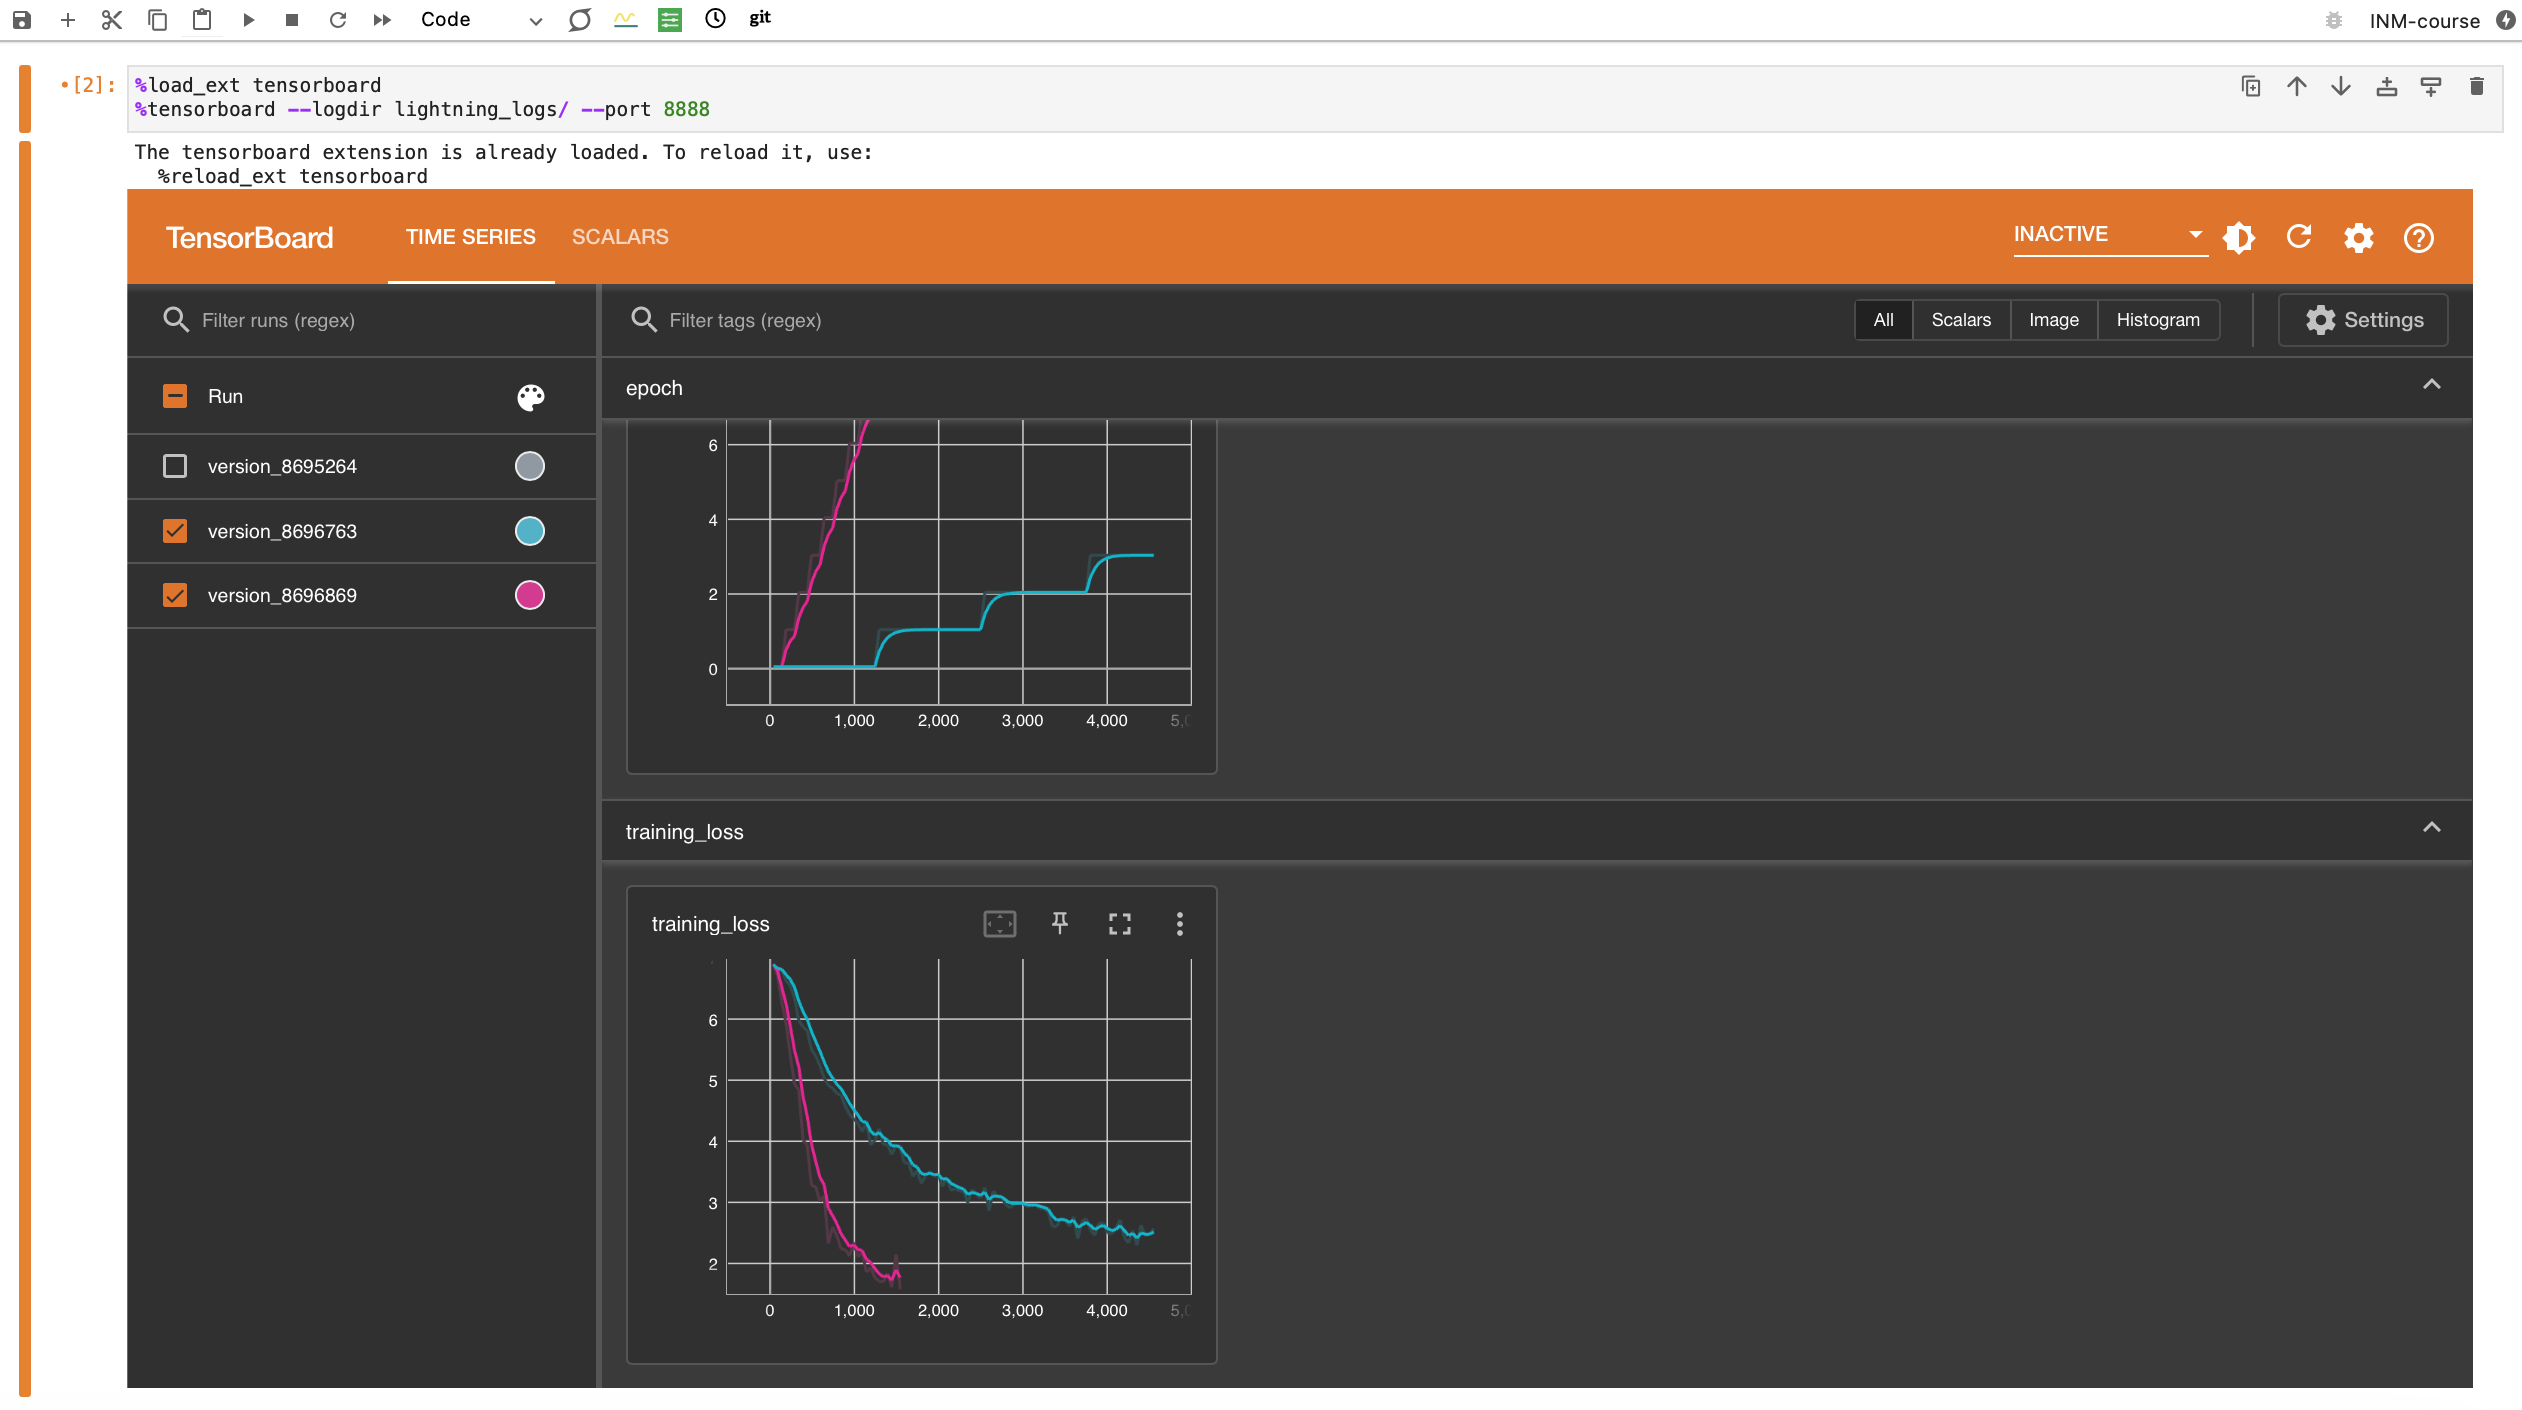
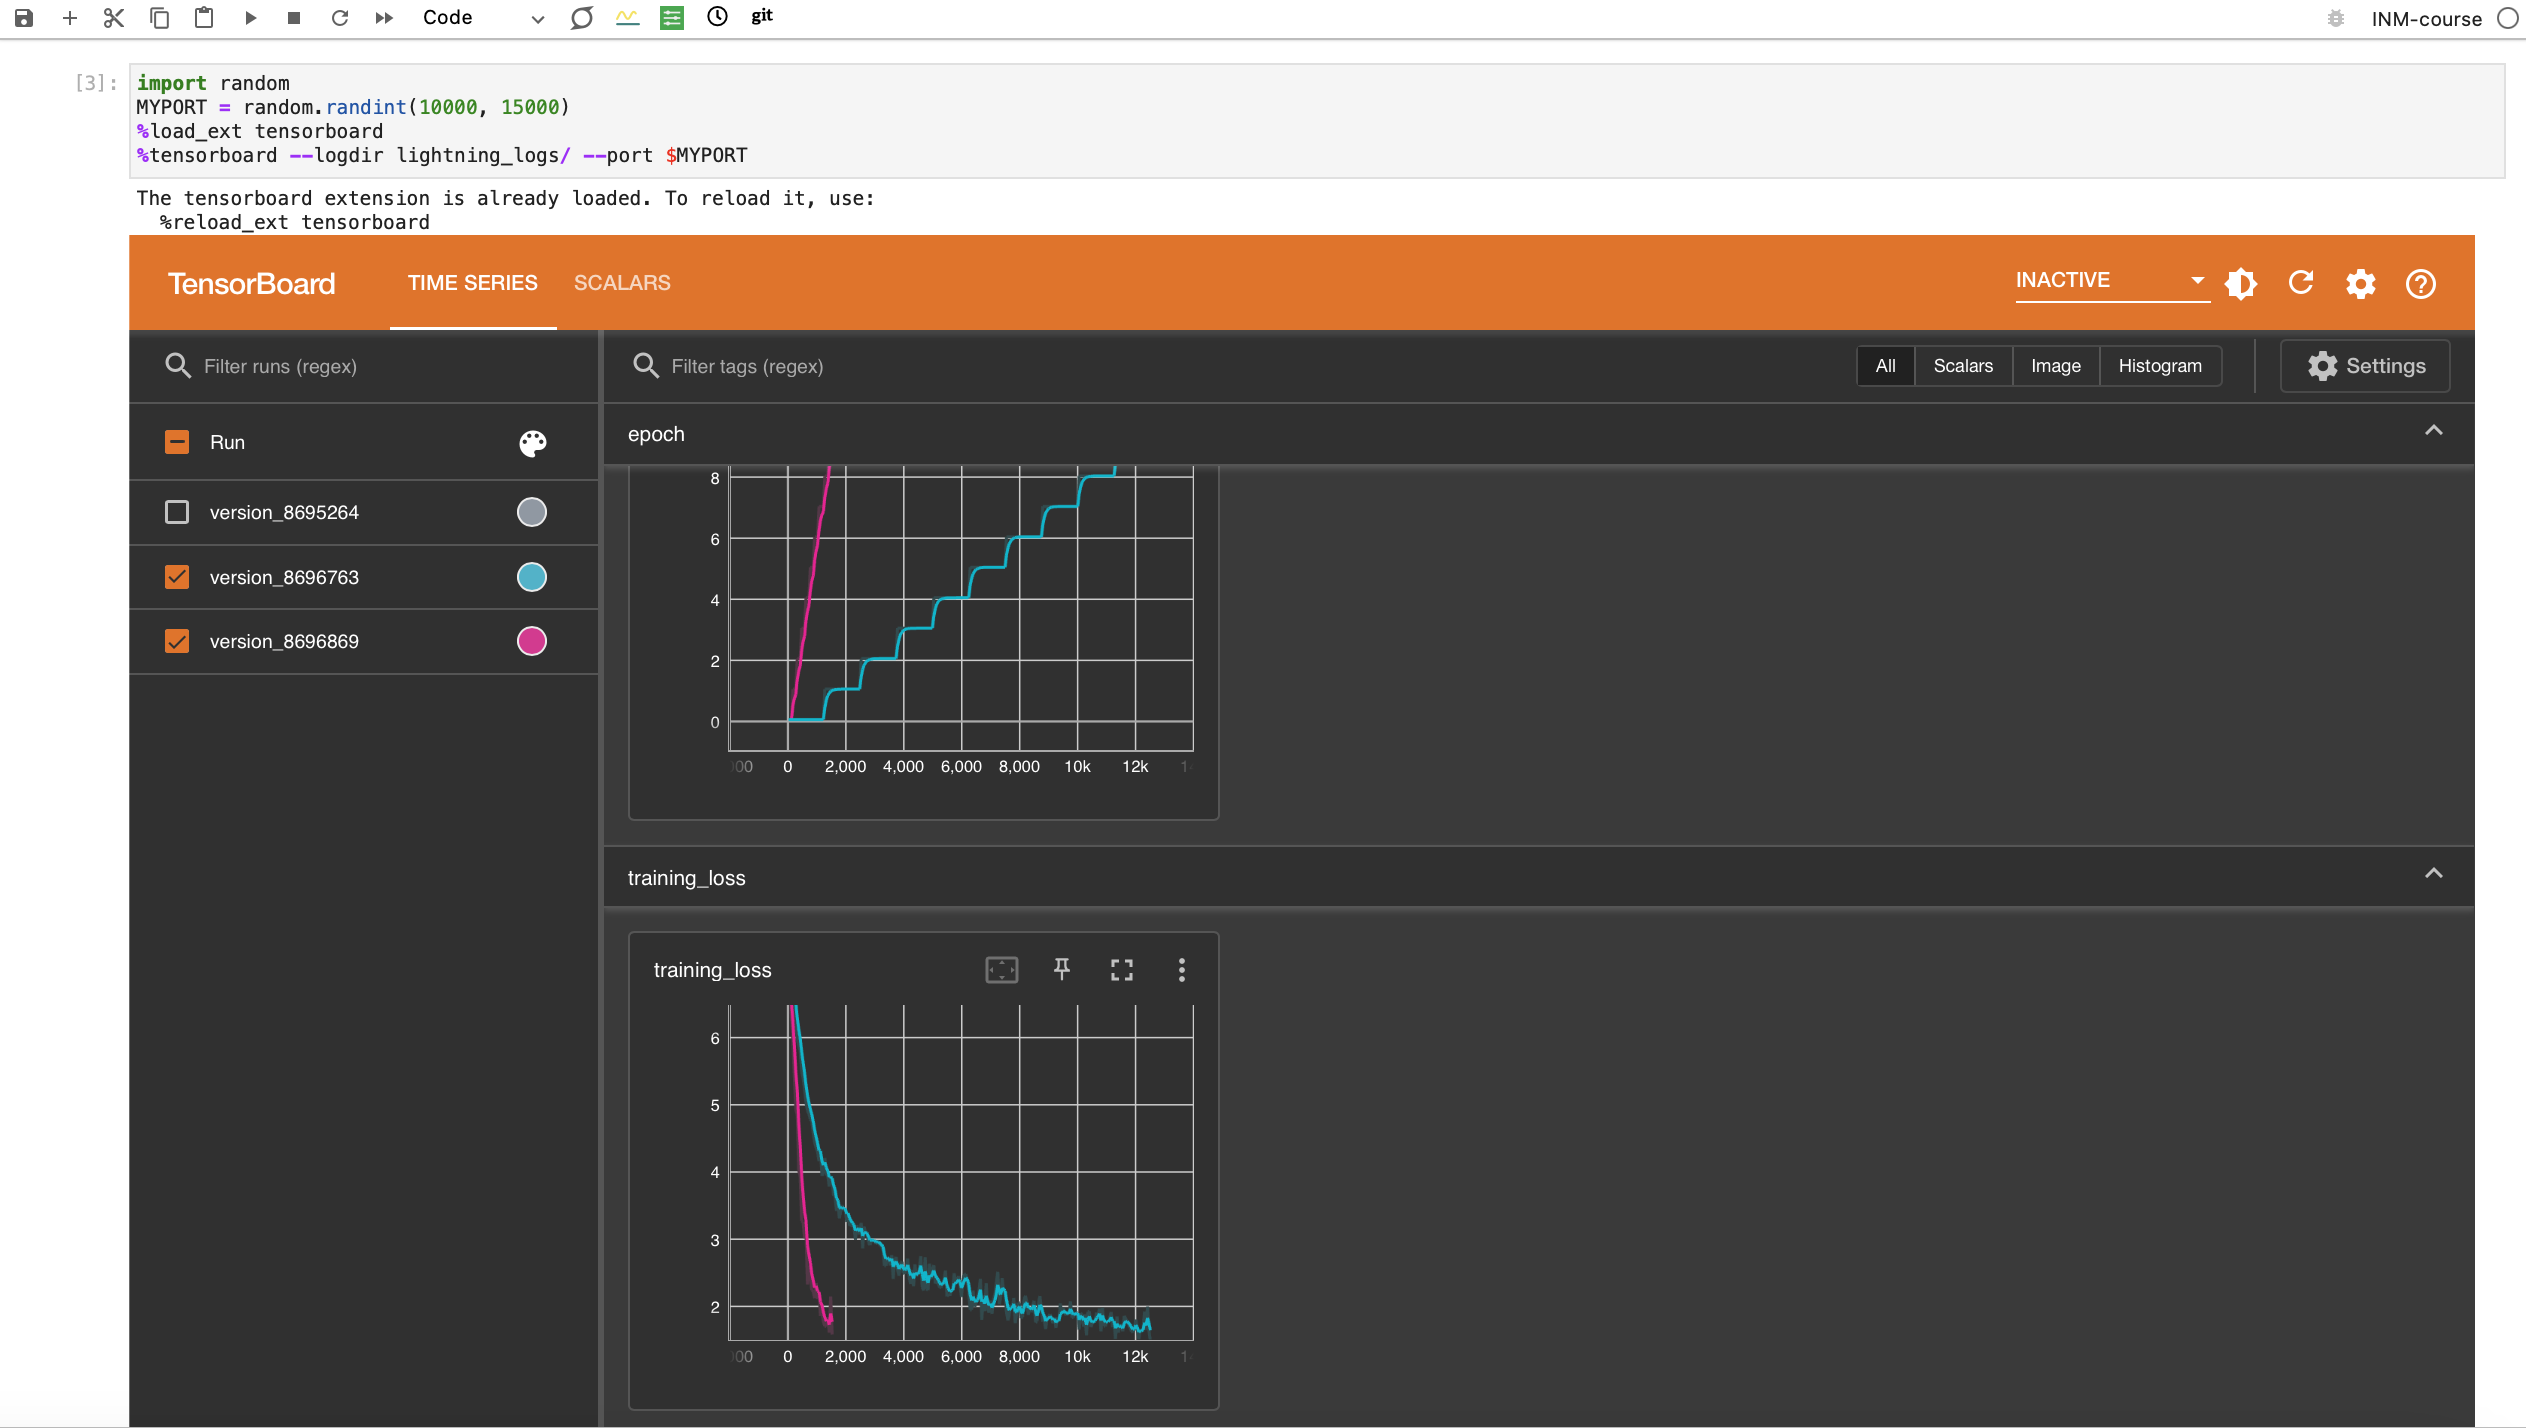
change port selection

Changed region(s): [[0.0, 0.0, 1.0, 1.0]]

diff --git a/public/03-parallelize-training.html b/public/03-parallelize-training.html
@@ -635,8 +635,10 @@ class="sourceCode python"><code class="sourceCode python"><span id="cb25-1"><a h
 <section id="tensorboard-1" class="slide level2">
 <h2>TensorBoard</h2>
 <div class="sourceCode" id="cb26"><pre
-class="sourceCode bash"><code class="sourceCode bash"><span id="cb26-1"><a href="#cb26-1" aria-hidden="true" tabindex="-1"></a><span class="ex">%load_ext</span> tensorboard</span>
-<span id="cb26-2"><a href="#cb26-2" aria-hidden="true" tabindex="-1"></a><span class="ex">%tensorboard</span> <span class="at">--logdir</span> <span class="pp">[</span><span class="ss">PATH_TO_TENSOR_BOARD</span><span class="pp">]</span> <span class="at">--port</span> 8888</span></code></pre></div>
+class="sourceCode python"><code class="sourceCode python"><span id="cb26-1"><a href="#cb26-1" aria-hidden="true" tabindex="-1"></a><span class="im">import</span> random</span>
+<span id="cb26-2"><a href="#cb26-2" aria-hidden="true" tabindex="-1"></a>MYPORT <span class="op">=</span> random.randint(<span class="dv">10000</span>, <span class="dv">15000</span>)</span>
+<span id="cb26-3"><a href="#cb26-3" aria-hidden="true" tabindex="-1"></a><span class="op">%</span>load_ext tensorboard</span>
+<span id="cb26-4"><a href="#cb26-4" aria-hidden="true" tabindex="-1"></a><span class="op">%</span>tensorboard <span class="op">--</span>logdir lightning_logs<span class="op">/</span> <span class="op">--</span>port $MYPORT</span></code></pre></div>
 <p><img data-src="images/notebook_tb.png" width="750" /></p>
 </section>
 <section id="demo-3" class="slide level2">

diff --git a/03-parallelize-training.md b/03-parallelize-training.md
@@ -469,9 +469,11 @@ self.log("training_loss", train_loss)
 
 ## TensorBoard
 
-```bash
+```python
+import random
+MYPORT = random.randint(10000, 15000)
 %load_ext tensorboard
-%tensorboard --logdir [PATH_TO_TENSOR_BOARD] --port 8888
+%tensorboard --logdir lightning_logs/ --port $MYPORT
 ```
 
 ![](images/notebook_tb.png){ width=750px }
